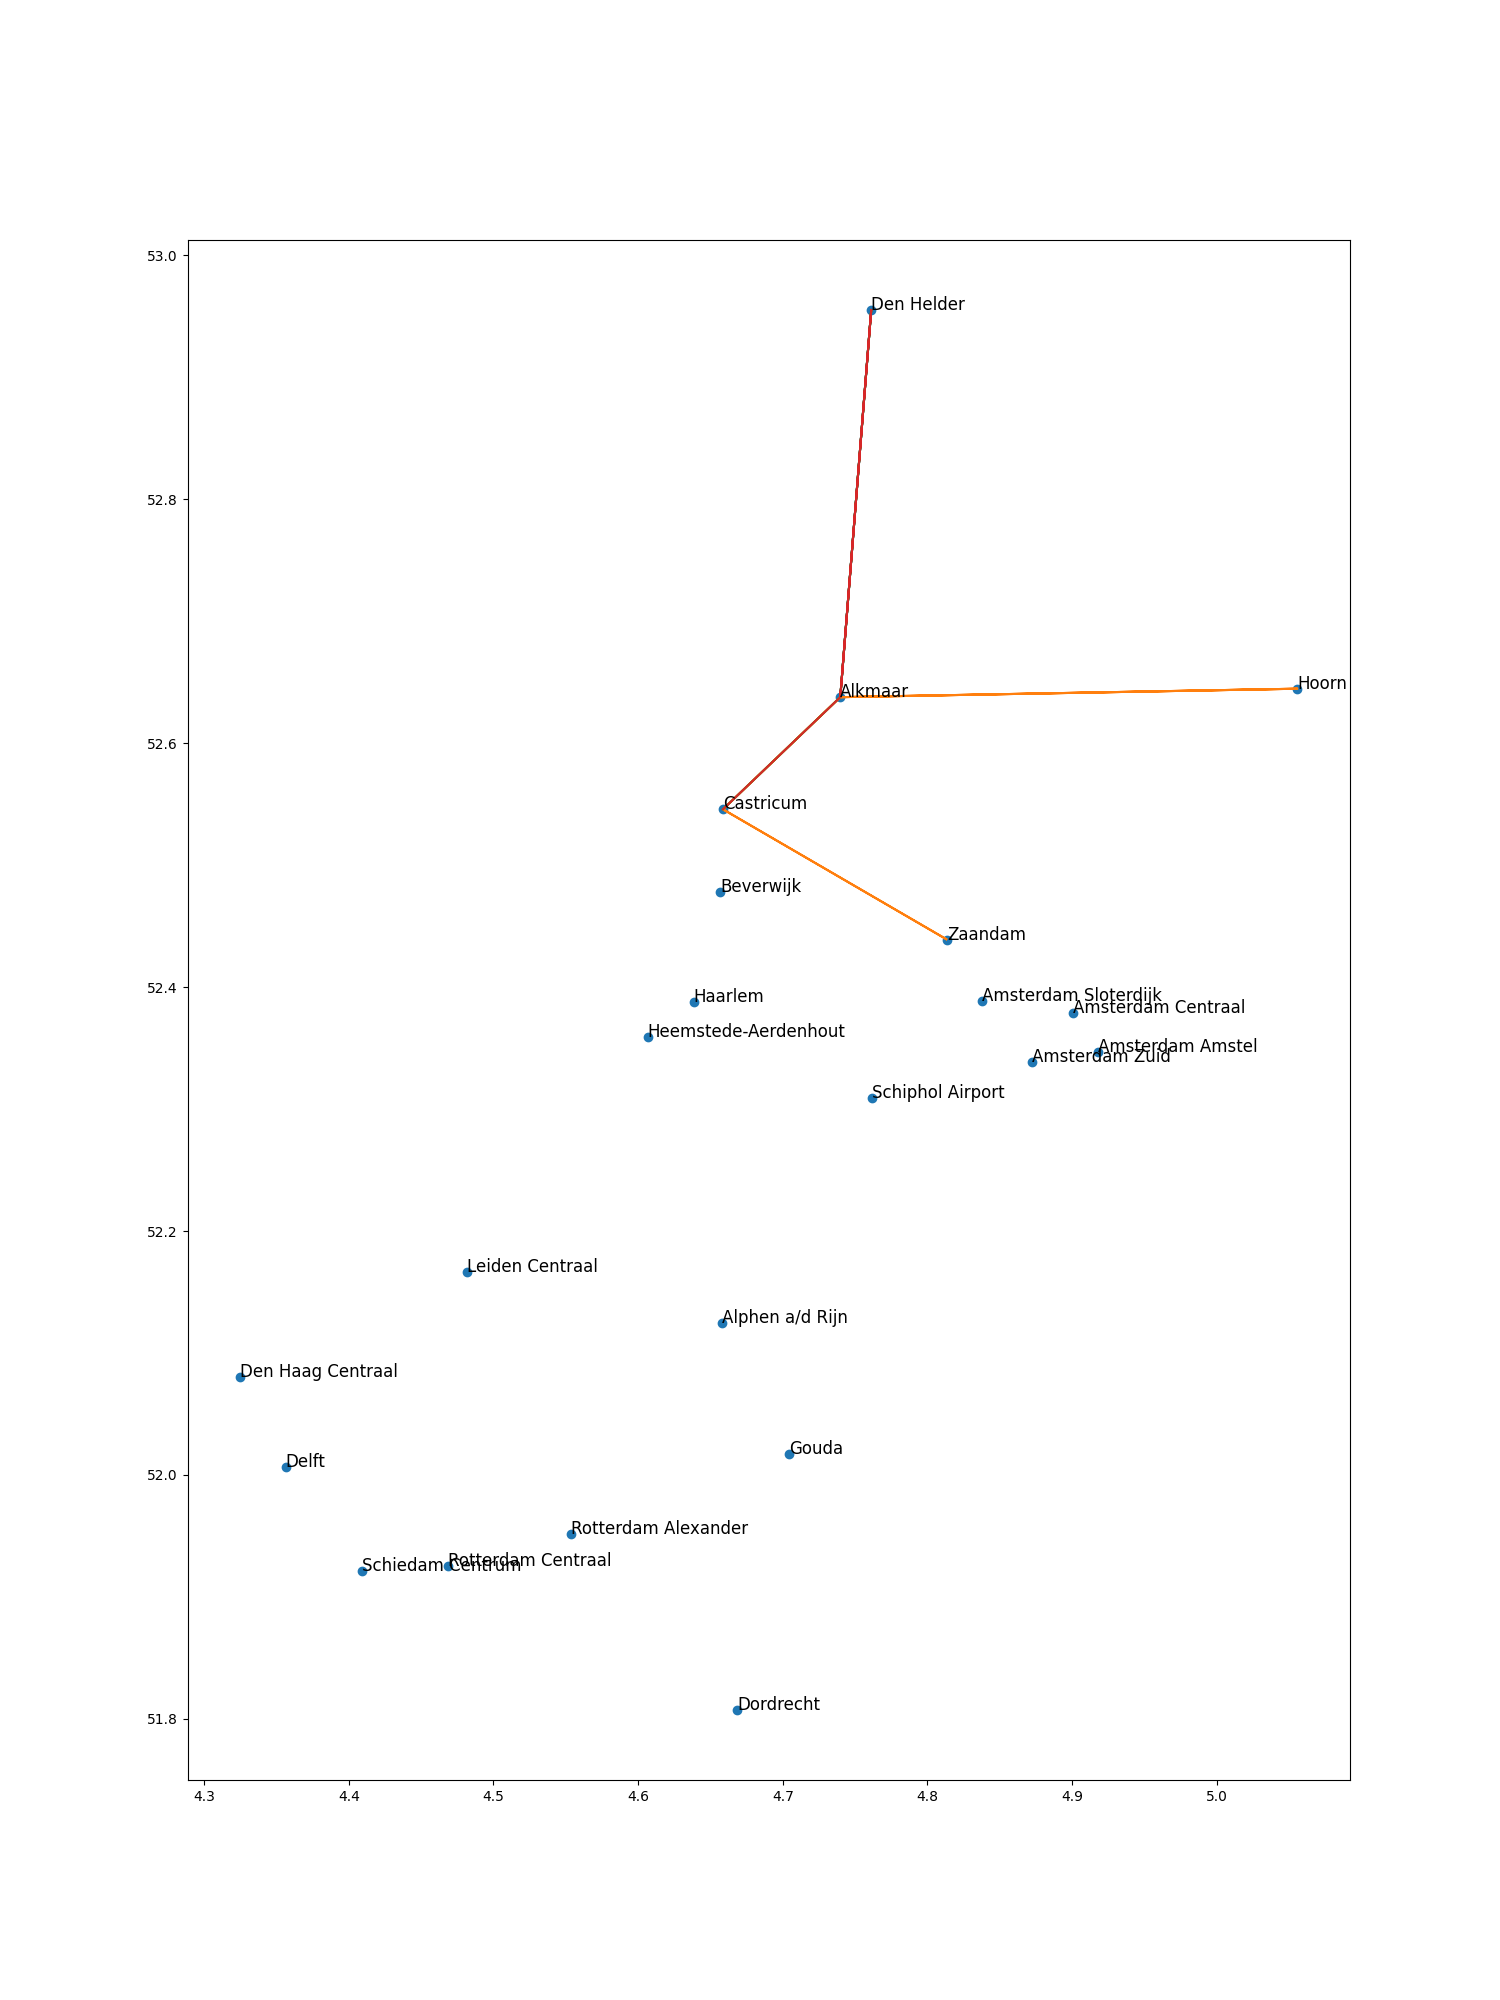
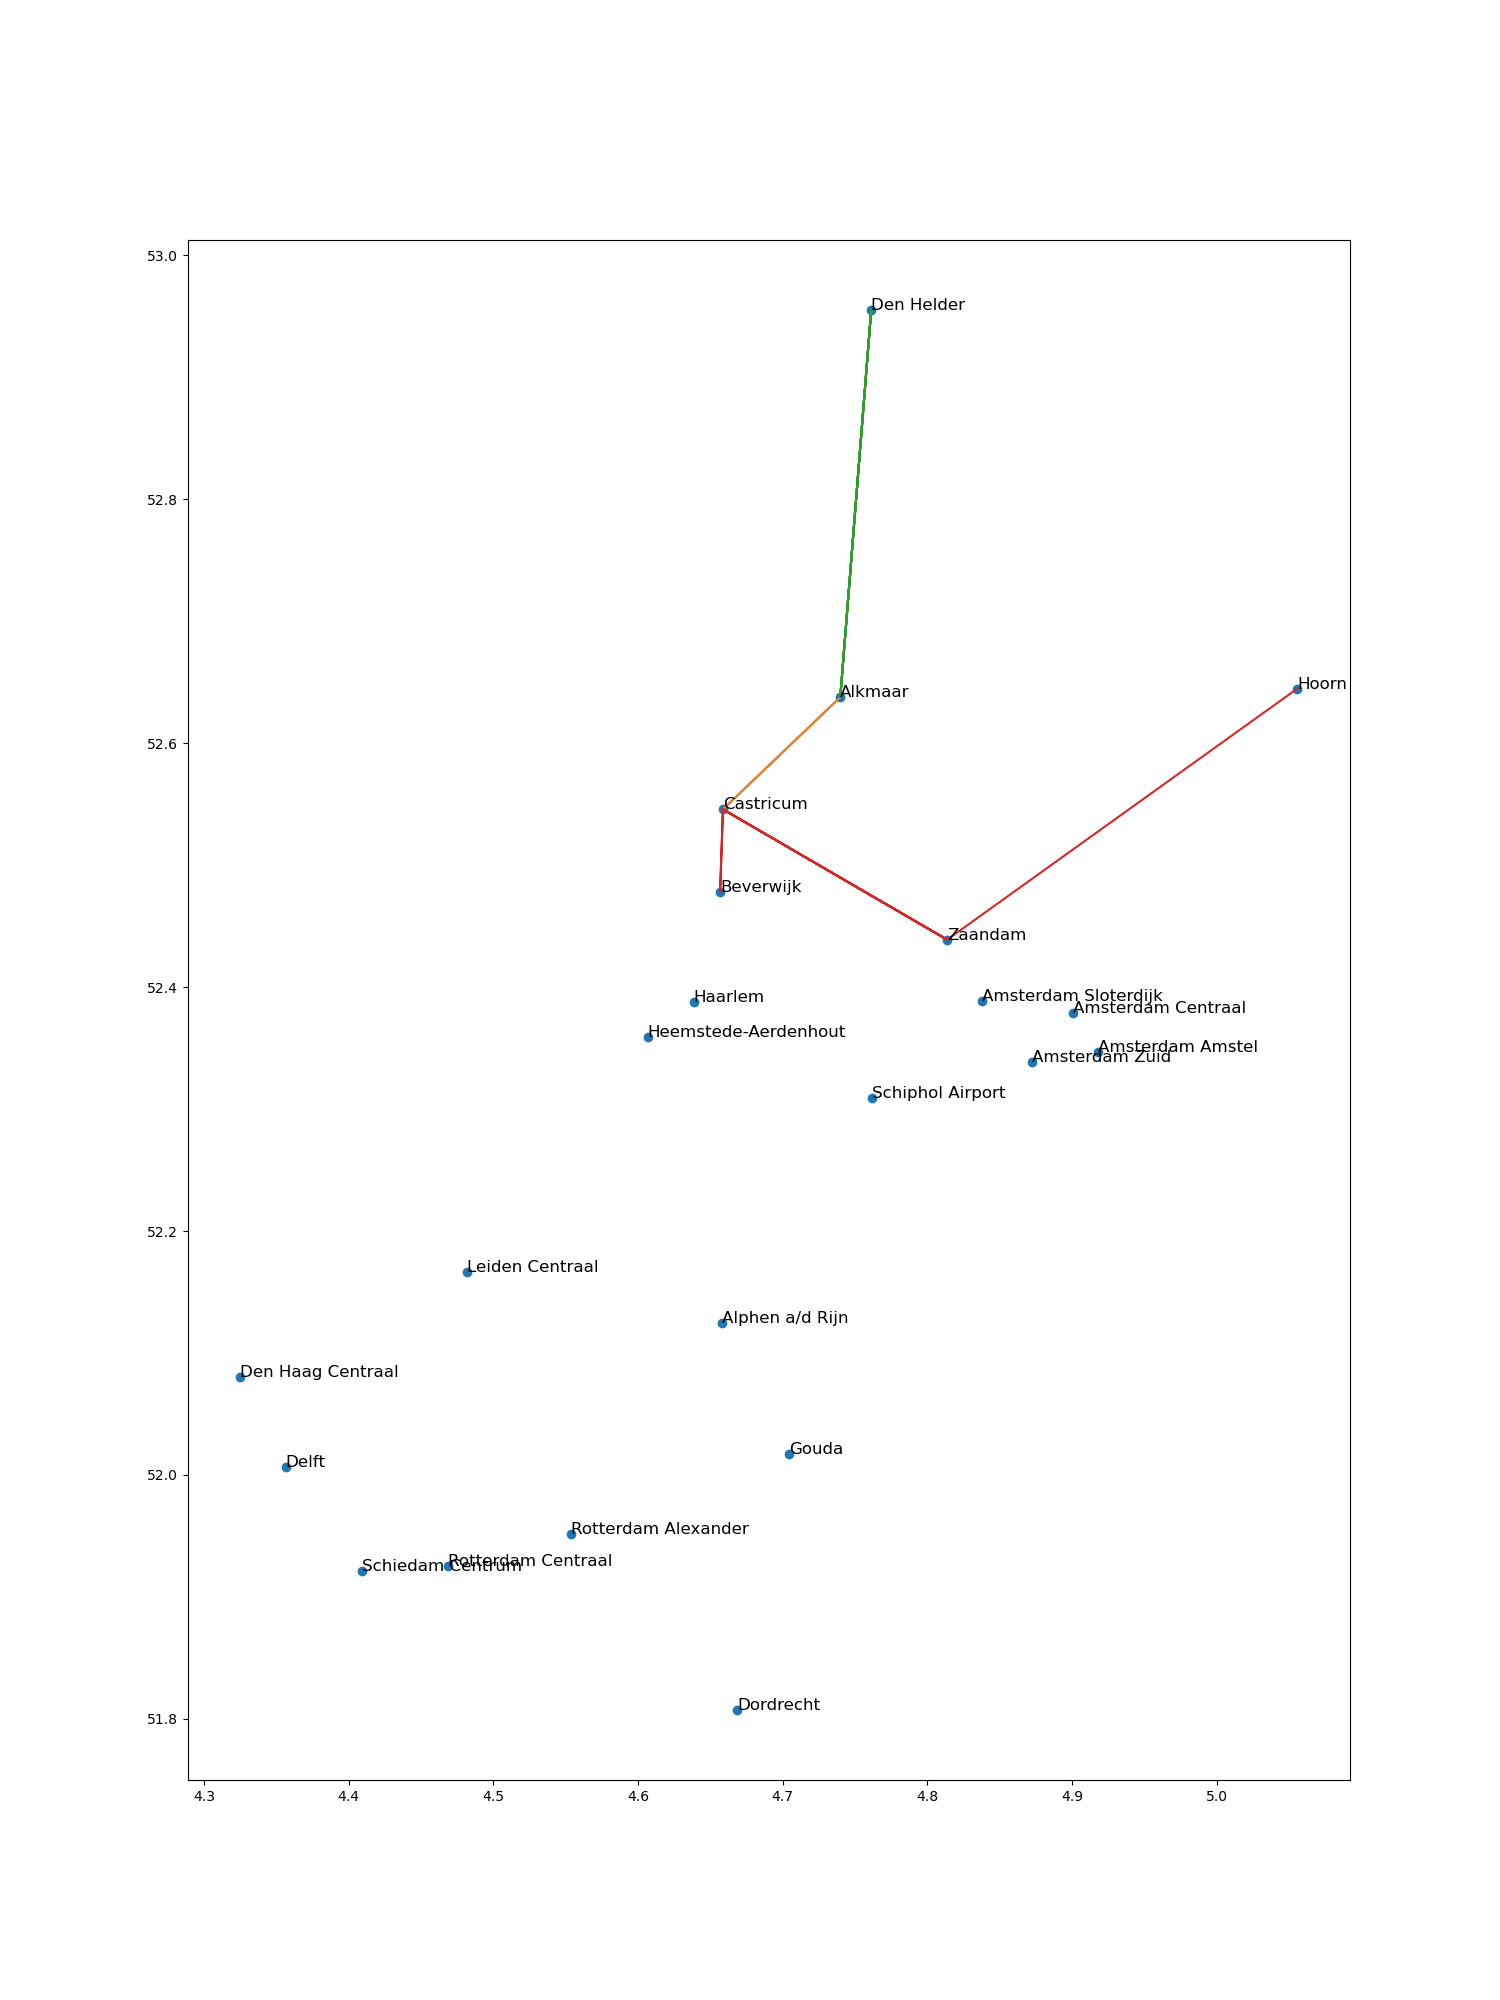
voor hillclimber 2de wijziging toegevoegd en getest

diff --git a/code/algoritmes/hillClimber.py b/code/algoritmes/hillClimber.py
@@ -3,9 +3,11 @@ import random
 from code.bouwblokjes.score import *
 from code.classes.station import *
 from code.classes.traject import *
+from code.bouwblokjes.inladen import *
 
 
 
+random.seed(10)
 
 
 class HillClimber():
@@ -17,42 +19,89 @@ class HillClimber():
         
     
 
-    def mutate_trajectories(self, new_trajectories, number_of_mutation=1):
+    def mutate_trajectories(self, new_trajectories):
 
         #print(len(new_trajectories), "voor ")
+        # kies een getal en verwijder die traject 
         getal = random.randint(0, len(new_trajectories)-1)
         new_trajectories.pop(getal)
         print(getal,len(new_trajectories))
 
         #print(len(new_trajectories), "na ")
+    def delete_last_connection(self, new_trajectories):
+        
+        getal = random.randint(0, len(new_trajectories)-1)
+        old_traject = new_trajectories[getal]
+        start_station = new_trajectories[getal]._stations[0]
+        station_object = make_connections()
+        new_traject = Traject(station_object[start_station])
+       
+        for i in old_traject._stations[1:len(old_traject._stations)-1]:
+            new_traject.add_trajectconnection(station_object[i])
+
+        new_trajectories[getal] = new_traject
+        
+
+    
+      
+
+
+
+
+
+
+        verbindingen= len(new_trajectories[getal]._stations)
+        # print(len(new_trajectories))
+
+        # while verbindingen < 1:
+        #     getal = random.randint(0, len(new_trajectories)-1)
+        #     verbindingen= len(new_trajectories[getal]._stations)
+        
+        # station_verwijderen = new_trajectories[getal]._stations.pop()
+        # station_verwijderen = new_trajectories[getal]._trajectconnection.pop()
+        # print(new_trajectories[getal]._stations)
+        #return new_trajectories
+        #print(len(new_trajectories[getal]._stations),getal)
+
+
 
     def check_solution(self, new_trajectories):
+        #print(new_trajectories)
         new_value = score_calc(new_trajectories)
+        
         old_value = self.value 
+        #print(new_value, old_value)
     
         if new_value >= old_value:
             self.trajectories= new_trajectories
             self.value = new_value
+           
 
 
     
     def run(self, iterations, mutate_trajectories_number=1):
 
         # herhaal
+        
        
         for iteration in range(iterations):
+            
             print(self.value)
-
 
             new_trajectories = copy.deepcopy(self.trajectories)
             # doe een kleine random aanpassing 
             # een traject meer of minder rijden 
-            # een verbinding verwijderen 
-            # een verbinding toevoegen 
+            # van een traject laatste verbinding verwijderen 
+            # van een traject een verbinding toevoegen 
             # een traject bij een andere startpunt laten beginnen  
-            self.mutate_trajectories(new_trajectories, number_of_mutation=mutate_trajectories_number)
+            # een traject opsplitsten
+            self.mutate_trajectories(new_trajectories)
+            self.delete_last_connection(new_trajectories)
+            #print(new_trajectories)
+
             #als de state is verslechterd:
             self.check_solution(new_trajectories)
-        print(new_trajectories)
+        
+        print(new_trajectories, len(new_trajectories))
                 
                 

diff --git a/addey_main.py b/addey_main.py
@@ -17,7 +17,7 @@ if __name__ == "__main__":
     # start state 1 oplossing = lijst[traject([stations)])]
     # een lijst met oplossing 1 oplossing kiezen 
     possible_solutions = []
-    for i in range(100):
+    for i in range(5):
         solution = run_random_algoritme(stations,7)
         possible_solutions.append(solution)
 
@@ -26,7 +26,7 @@ if __name__ == "__main__":
     climber =  HillClimber(random_chosen_solution)
 
     #print("Running Hill Climber...")
-    climber.run(10,1)
+    climber.run(100,1)
 
 
     

diff --git a/code/classes/traject.py b/code/classes/traject.py
@@ -32,4 +32,5 @@ class Traject():
         self._stations.append(station._name)
 
     def __repr__(self):
-        return f"traject({self._stations})"
+        return f"traject{self._stations}"
+        # return f" {self._trajectconnection}"
